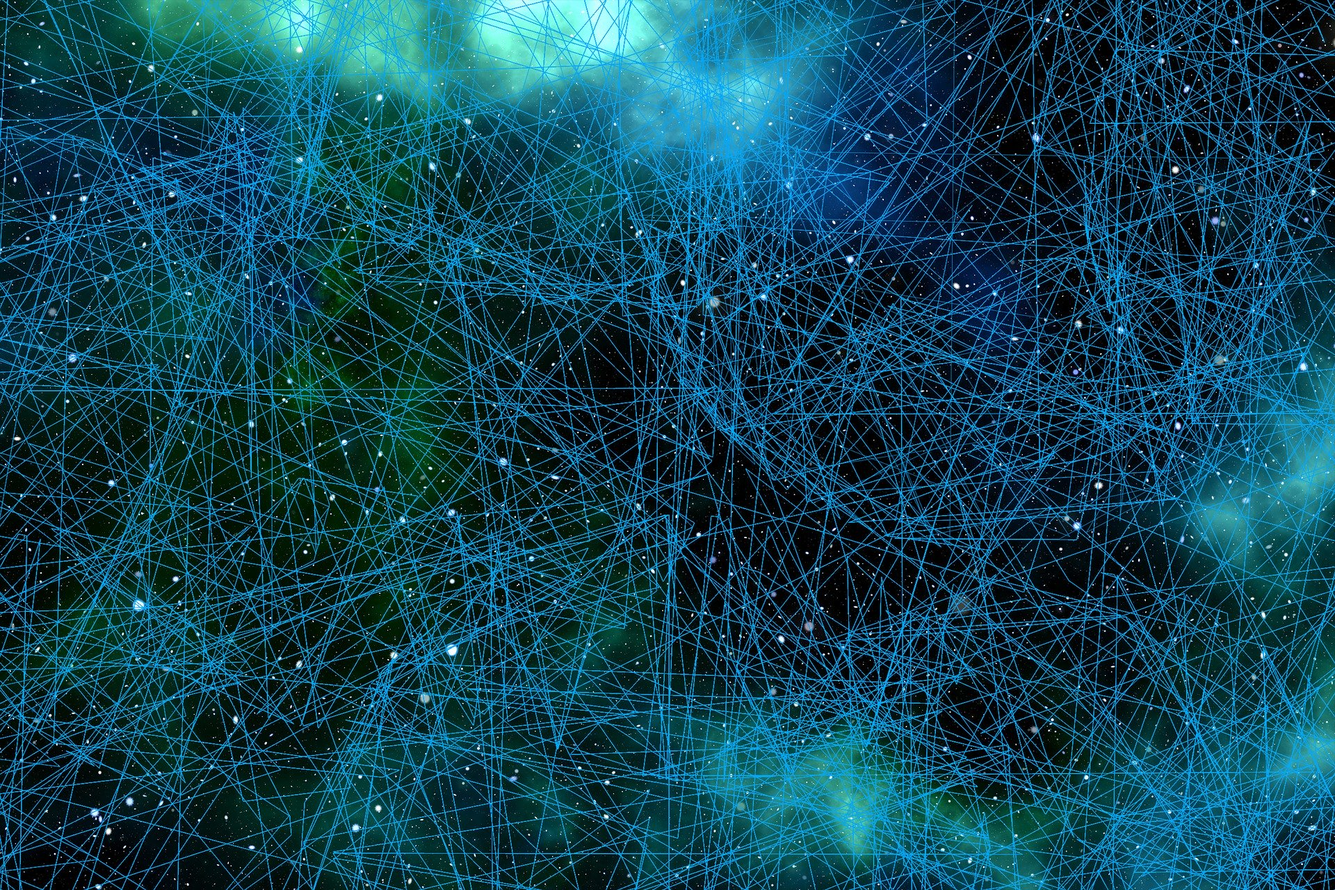
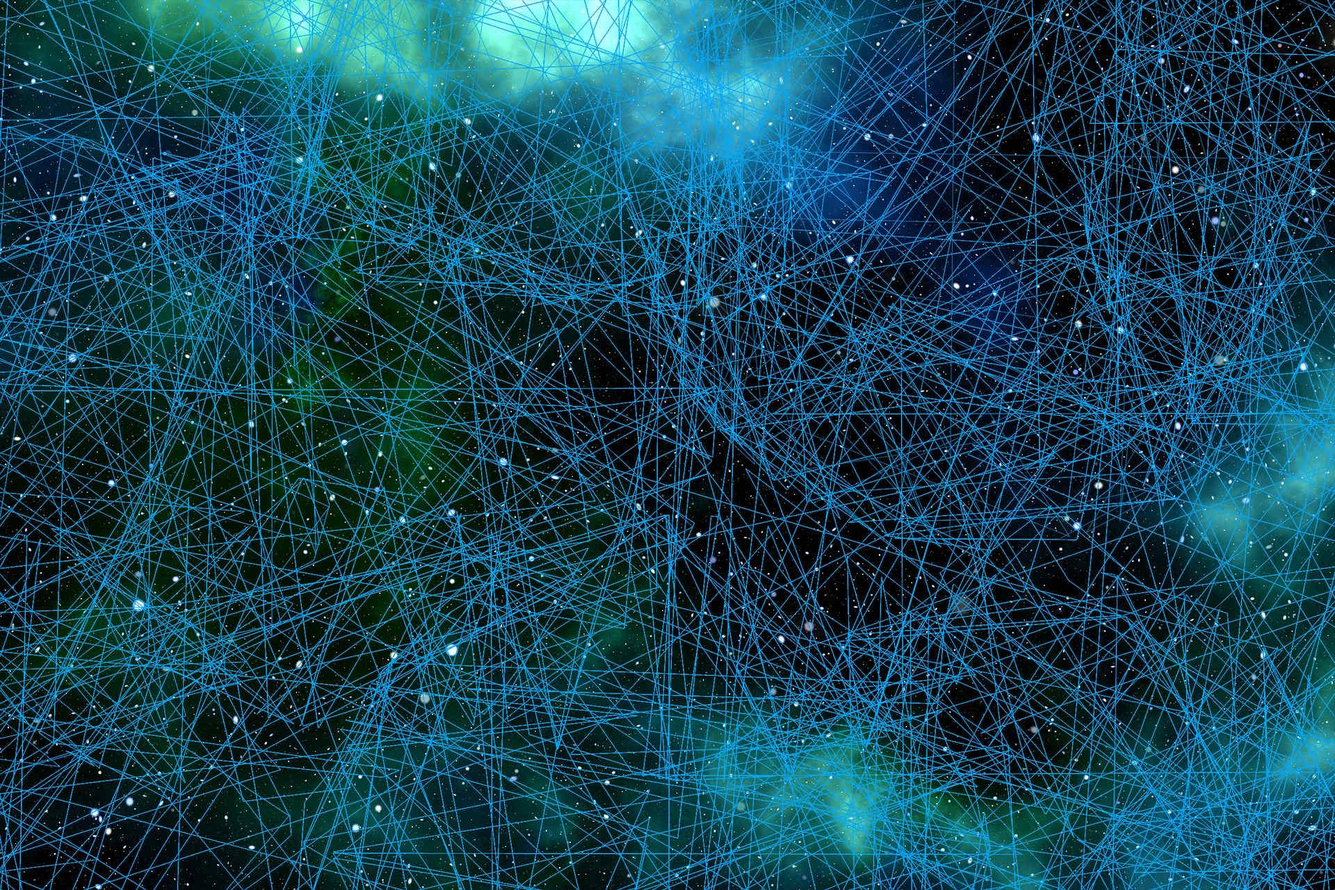
Decrease images size

Changed region(s): [[0.0, 0.0, 1.0, 1.0], [0.3438, 0.0, 0.4688, 0.0938], [0.5, 0.0938, 0.5625, 0.125]]

diff --git a/_site/2020/welcome-to-jekyll/index.html b/_site/2020/welcome-to-jekyll/index.html
@@ -248,7 +248,7 @@
     <div class="carousel-inner">
         
         <div class="carousel-item active">
-            <img src="./assets/images/control-bg.png">
+            <img src="./assets/images/control-bg.jpg">
             <div class="container">
                 <div class="carousel-caption text-left">
                     <h1>Control</h1>

diff --git a/_site/404.html b/_site/404.html
@@ -248,7 +248,7 @@
     <div class="carousel-inner">
         
         <div class="carousel-item active">
-            <img src="./assets/images/control-bg.png">
+            <img src="./assets/images/control-bg.jpg">
             <div class="container">
                 <div class="carousel-caption text-left">
                     <h1>Control</h1>

diff --git a/_site/index.html b/_site/index.html
@@ -248,7 +248,7 @@
     <div class="carousel-inner">
         
         <div class="carousel-item active">
-            <img src="./assets/images/control-bg.png">
+            <img src="./assets/images/control-bg.jpg">
             <div class="container">
                 <div class="carousel-caption text-left">
                     <h1>Control</h1>

diff --git a/_site/assets/images/README.md b/_site/assets/images/README.md
@@ -1,7 +1,6 @@
 ## List of images that come from pixabay.com 
 
 License: <https://pixabay.com/hu/service/license/>
-See files: pixabay_license.txt and pixabay_simplified_license.txt
 
     - assets/images/control-bg.jpg 
     - assets/images/service-mesh.jpg
